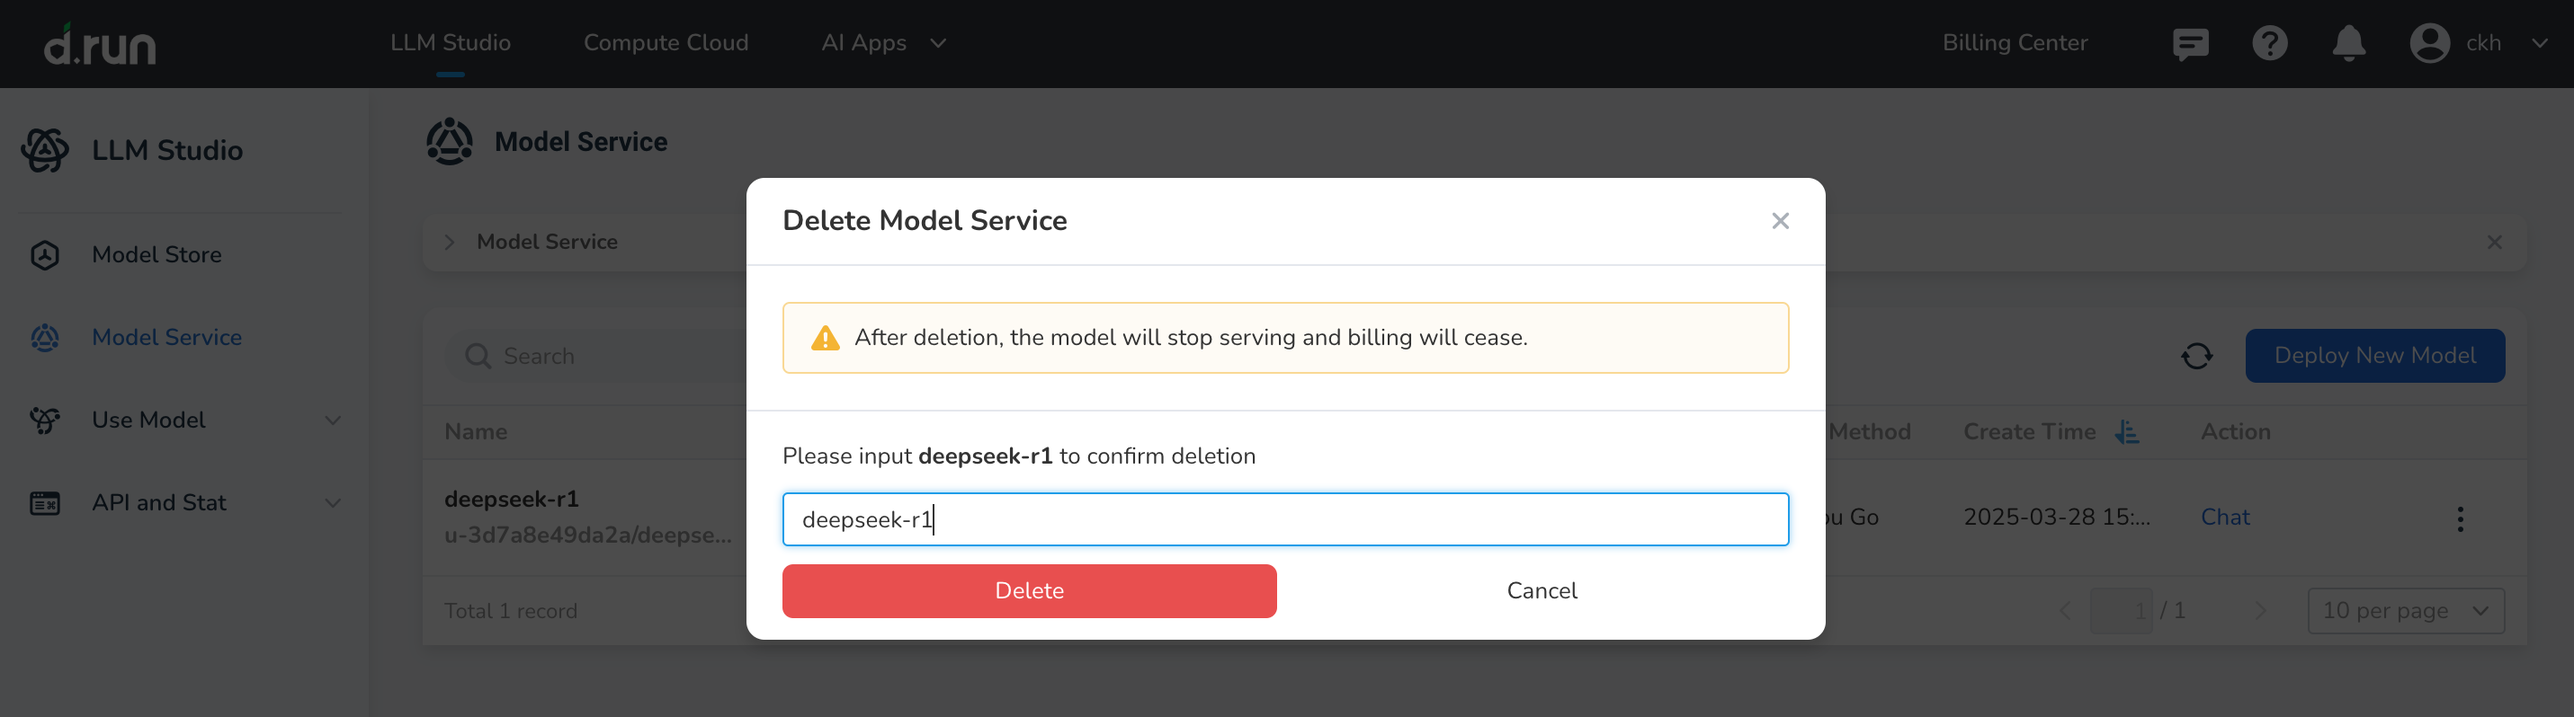
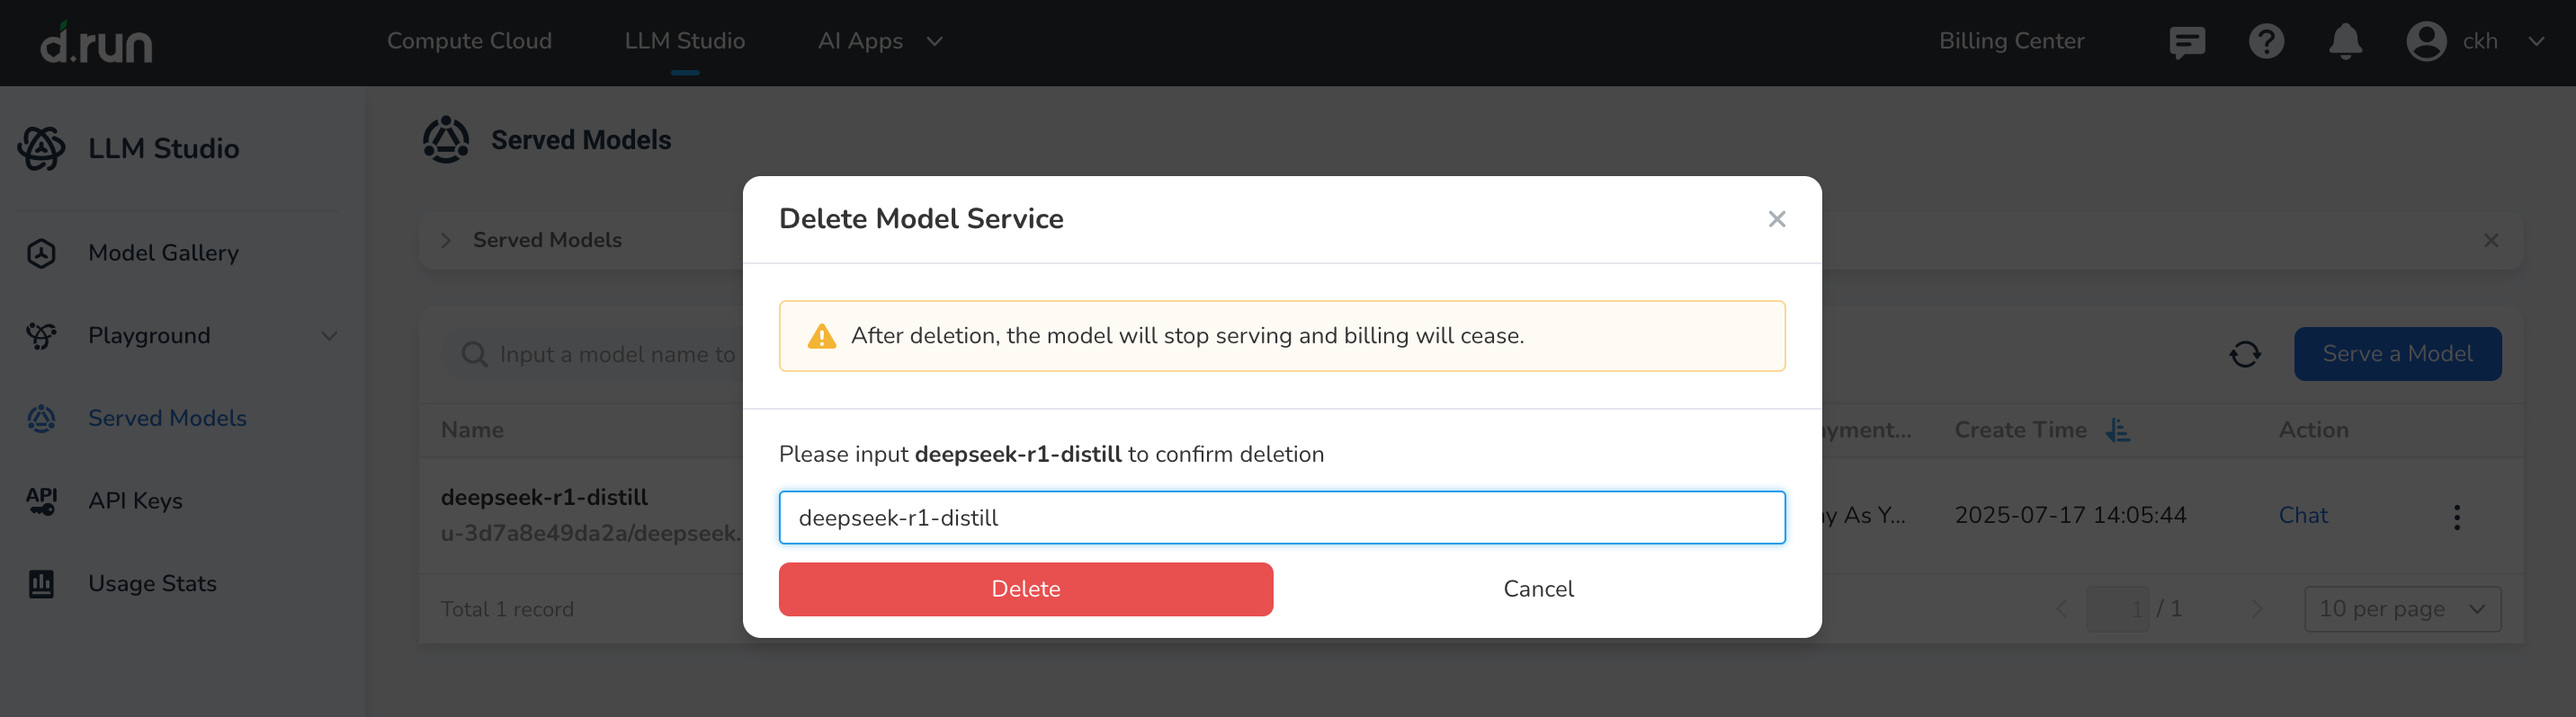
[en] update hydra images

diff --git a/docs/zh/docs/en/rel-notes.md b/docs/zh/docs/en/rel-notes.md
@@ -41,7 +41,7 @@ This page outlines key feature updates for **d.run** .
 - [Model Gallery] Enabled message copying and regeneration for text models  
 - [Model Gallery] Image-to-text models can now generate multiple images simultaneously  
 - [Model Gallery] Image-to-text models now support custom positive/negative prompts and image sizes  
-- [Model Service] Fully compatible with the standard OpenAI SDK  
+- [Served Models] Fully compatible with the standard OpenAI SDK  
 - [API Keys] Usage statistics can now be filtered by API key, model type, and invocation time  
 - [API Keys] Quickly view total calls, total input tokens, and total output tokens  
 - [API Keys] Compare usage across different models  
@@ -72,14 +72,14 @@ This page outlines key feature updates for **d.run** .
 - [Model Gallery] Search models by name, provider, and type  
 - [Model Gallery] Try multimodal models  
 - [Model Gallery] Try image-to-text models  
-- [Model Service] View list of deployed model services  
-- [Model Service] Variety of models available for deployment  
-- [Model Service] Instance scaling support  
-- [Model Service] Postpaid billing (pay-as-you-go) with cost transparency  
-- [Model Service] Region selection supported for deployment  
-- [Model Service] Configure number of instances for horizontal scaling  
-- [Model Service] In-browser experience of deployed models  
-- [Model Service] API examples in multiple languages (curl, Python, Node.js)  
+- [Served Models] View list of deployed model services  
+- [Served Models] Variety of models available for deployment  
+- [Served Models] Instance scaling support  
+- [Served Models] Postpaid billing (pay-as-you-go) with cost transparency  
+- [Served Models] Region selection supported for deployment  
+- [Served Models] Configure number of instances for horizontal scaling  
+- [Served Models] In-browser experience of deployed models  
+- [Served Models] API examples in multiple languages (curl, Python, Node.js)  
 - [Playground] One-click testing to quickly verify service availability  
 - [Playground] Text generation models support parameters like `system prompt`, `temperature`, and `top_p`  
 - [Playground] Compare different models of the same type  
